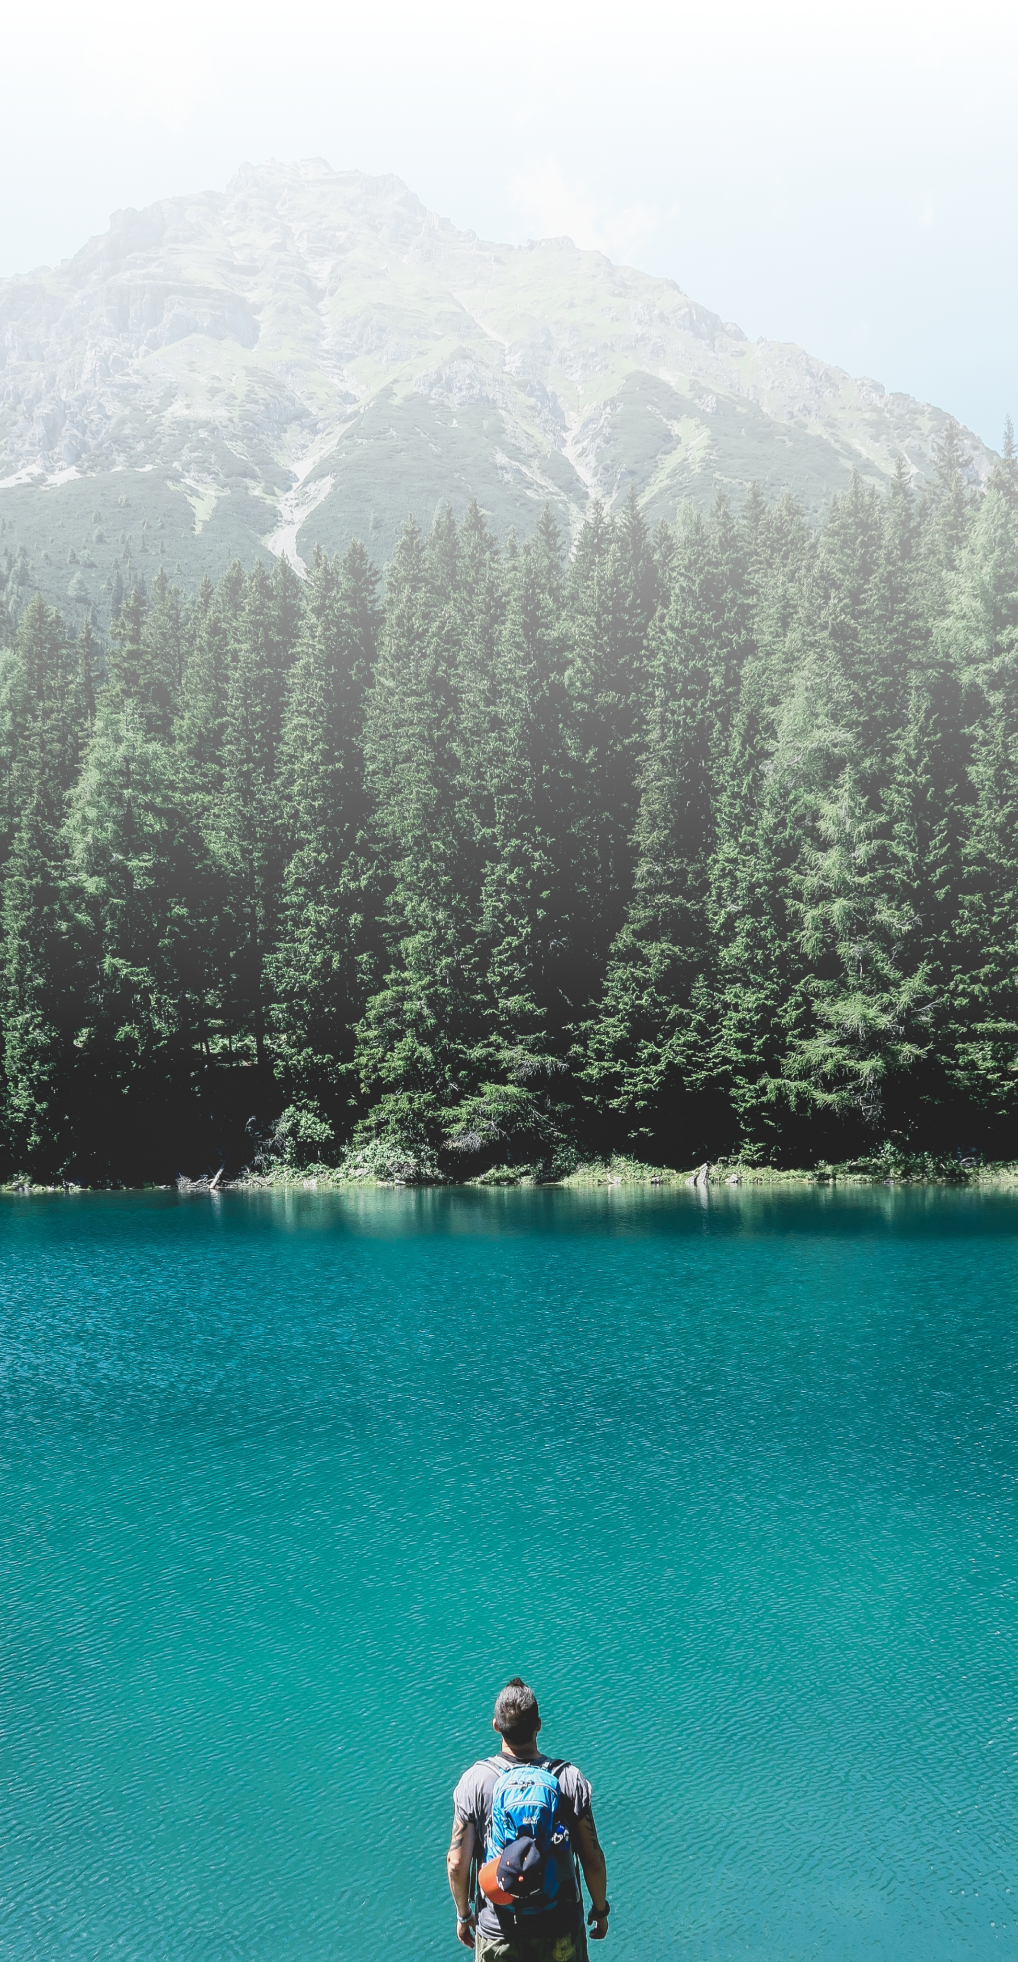
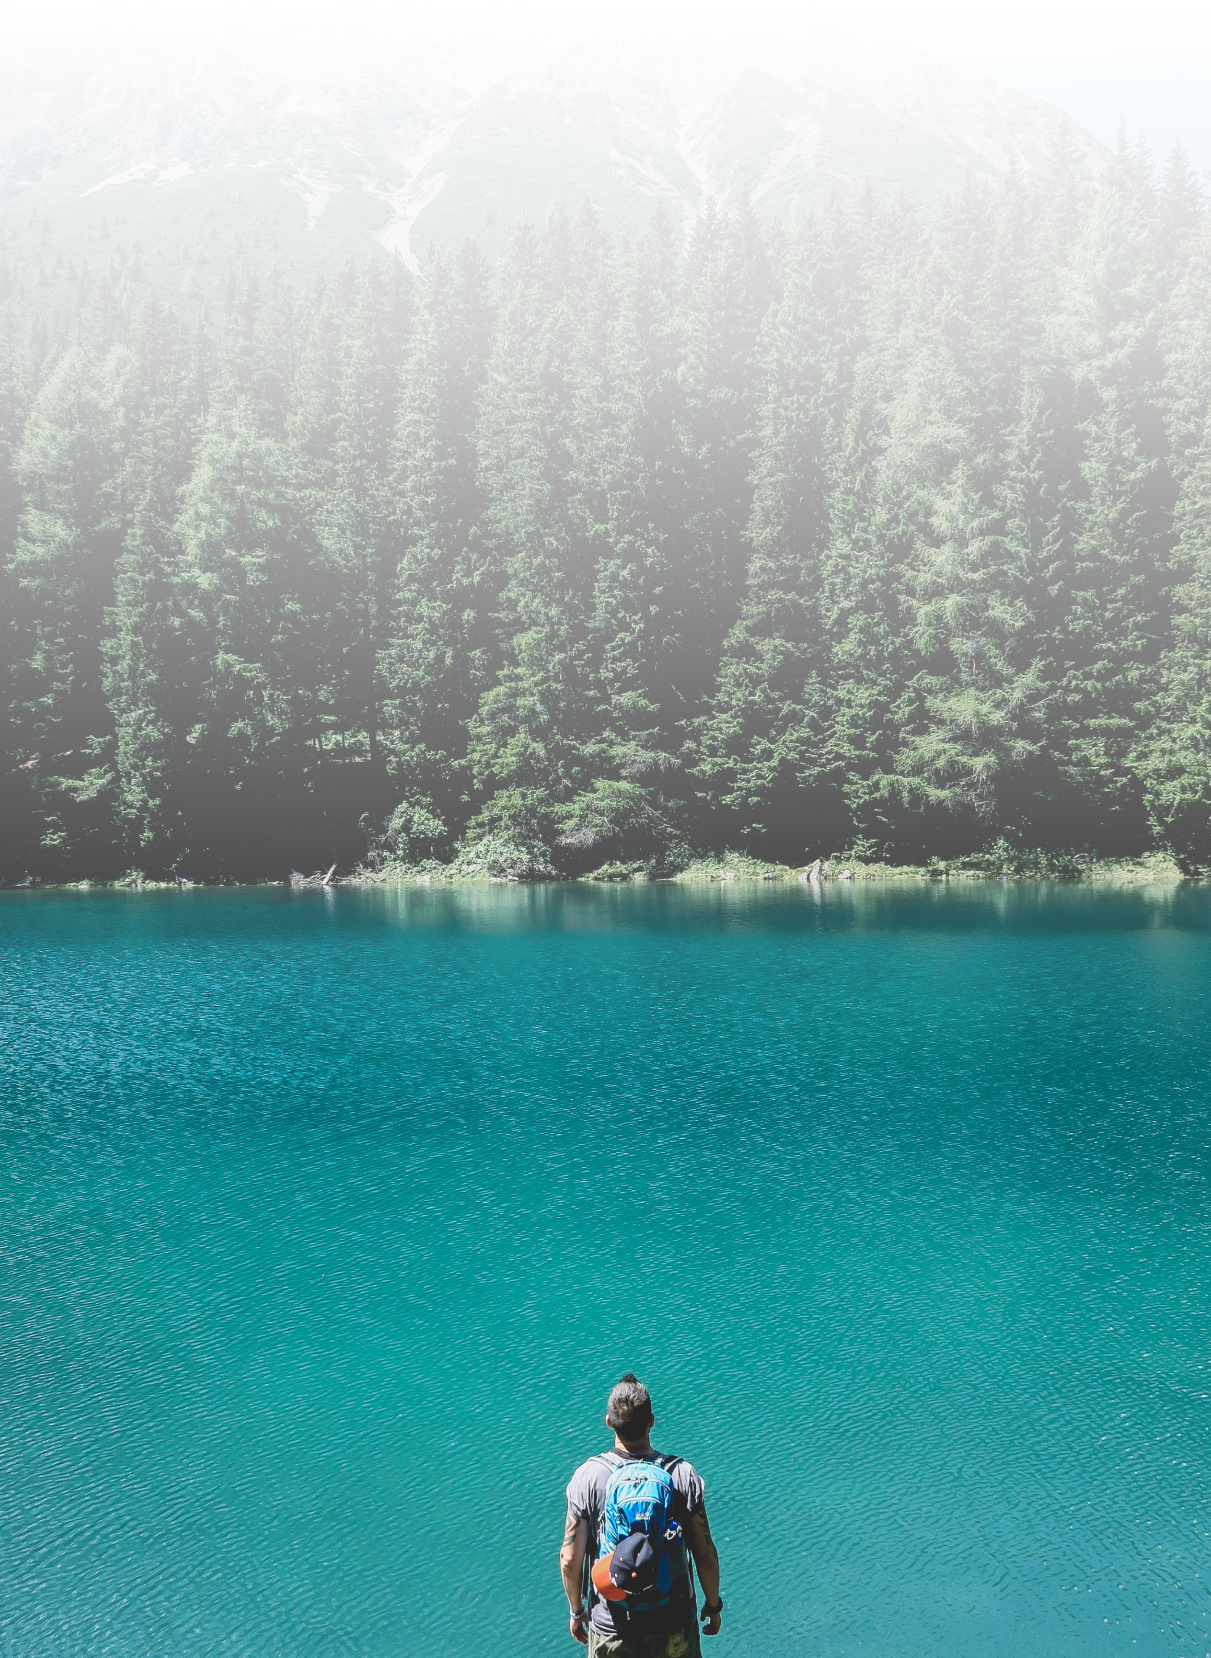
top画面編集中、名刺置くとこまで

diff --git a/resources/views/welcome.blade.php b/resources/views/welcome.blade.php
@@ -389,11 +389,33 @@
             font-family: 'Nunito', sans-serif;
         }
 
-        body {
+        /* body {
             background-image: url('/image/top.png');
-            background-size: cover;
-            background-position: center center;
+            background-size: 100% auto;
+            background-position: center top;
             background-repeat: no-repeat;
+        } */
+
+        body {
+            position: relative;
+            min-height: 100vh;
+            background-color: #e8e8e8;
+        }
+
+        footer {
+            position: absolute;
+            bottom: 0;
+            width: 100%;
+            height: 60px;
+            /* フッターの高さに合わせて値を調整 */
+            background-color: #f5f5f5;
+        }
+
+        @media (max-width: 640px) {
+            footer {
+                height: 80px;
+                /* スマートフォン向けにフッターの高さを変更 */
+            }
         }
     </style>
     </style>
@@ -420,12 +442,20 @@
         <div class="max-w-6xl mx-auto sm:px-6 lg:px-8">
             <div class="flex items-center justify-center pt-8 sm:justify-start sm:pt-0">
                 <a href="/" class="flex items-center">
-                    <img src="{{ asset('/image/logo7.svg') }}"
-                        style="height:80px; margin-top:30px; margin-bottom:15px;">
-                    <h1 class="ml-2">GEOCARD</h1>
+                    <div style="margin-top:30px;">
+                        <img src="/image/top2.png" alt="画像の説明"
+                            style=" margin-top:50px; max-width: 80%; height:auto; display: block; margin: 0 auto;">
+                    </div>
+                    {{-- <img src="{{ asset('/image/logobig.png') }}"
+                        style="height:80px; margin-top:30px; margin-bottom:15px;"> --}}
+                    {{-- <h1 class="ml-2">GEOCARD</h1> --}}
                 </a>
             </div>
-
+            <div class="mt-8 text-center" style="margin-top:160px;">
+                <h1 style="font-size: 24px;">旅の出会いを気楽に長く</h1>
+                <h1 style="font-size: 24px;">「デジタル旅名刺」</h1>
+            </div>
+            {{-- 
             <div class="mt-8 bg-white dark:bg-gray-800 overflow-hidden shadow sm:rounded-lg">
                 <div class="grid grid-cols-1 md:grid-cols-2">
                     <div class="p-6">
@@ -476,7 +506,7 @@
                         </div>
                     </div>
                 </div>
-            </div>
+            </div> --}}
 
             <div class="flex justify-center mt-4 sm:items-center sm:justify-between">
                 <div class="text-center text-sm text-gray-500 sm:text-left">
@@ -485,12 +515,15 @@
                     </div>
                 </div>
 
-                <div class="ml-4 text-center text-sm text-gray-500 sm:text-right sm:ml-0">
-                    Laravel v{{ Illuminate\Foundation\Application::VERSION }} (PHP v{{ PHP_VERSION }})
-                </div>
+
             </div>
         </div>
     </div>
+    <footer>
+        <div class="ml-4 text-center text-sm text-gray-500 sm:text-right sm:ml-0">
+            GEOCARD copyright
+        </div>
+    </footer>
     <!-- jQuery、Popper.js、Bootstrap JS -->
     <script src="https://code.jquery.com/jquery-3.4.1.slim.min.js"
         integrity="sha384-J6qa4849blE2+poT4WnyKhv5vZF5SrPo0iEjwBvKU7imGFAV0wwj1yYfoRSJoZ+n" crossorigin="anonymous">
